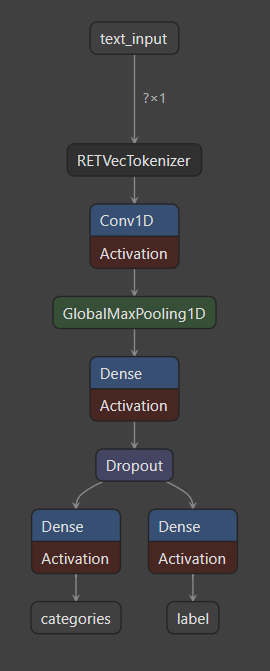
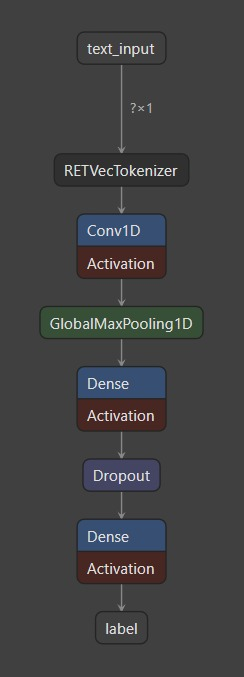
docs: update README note section to English

diff --git a/README.md b/README.md
@@ -41,10 +41,10 @@ As enterprise organizations ingest unstructured documents (PDF, DOCX, PPTX, XLSX
 This microservice analyzes extracted document text, optical OCR text streams, and steganographically hidden text layers, evaluating them through a character-level **RETVec + Conv1D Deep Neural Network**. It operates completely free of external LLM API calls, delivering zero-latency, deterministic threat classification before forwarding suspicious items for downstream LLM evaluation.
 
 > [!NOTE]
-> **Model Readiness & Dataset Scaling Notice / Model Statusu və Data Tələbi:**
-> - **Architecture & Pipeline Readiness:** Modelin memarlıq quruluşu (Google RETVec + Conv1D dual-head neural network) tam olaraq qurulub, oturdulub və real-time nəticə almaq üçün hazır vəziyyətdədir.
-> - **Dataset Volume & Diversity Bottleneck:** Modelin dəqiqliyini (accuracy) daha da artırmaq üçün əsas çatışmayan cəhət mövcud dataset-in həcminin azlığı və nümunələrin oxşarlığıdır. Dataset materialları kəmiyyət və keyfiyyət baxımından (müxtəlif real-world sənəd və injection növləri ilə) artırıldıqca modelin accuracy göstəricisi də mütənasib olaraq yüksələcəkdir.
-> - **Private Service Architecture & Testing Mode:** Bu ML servisi istehsalat (production) mühitində şəbəkə daxilində tam izolyasiya olunmuş **Private Microservice** kimi fəaliyyət göstərir və `X-Internal-Token` qoruması ilə təmin edilir. Münsiflər və test edənlər üçün Swagger UI üzərindən canlı sınaq rahatlığı yaratmaq məqsədilə evaluasiya endpoint-ləri müvəqqəti olaraq açıq saxlanılmışdır.
+> **Model Readiness & Dataset Scaling Notice:**
+> - **Architecture & Pipeline Readiness:** The model architecture (Google RETVec + Conv1D dual-head neural network) is fully implemented, deployed, and ready for real-time threat inference.
+> - **Dataset Volume & Diversity Bottleneck:** To further improve model accuracy, the primary requirement is expanding dataset volume and sample diversity. As training materials grow in both quantity and quality (incorporating diverse real-world documents and injection techniques), model performance will scale accordingly.
+> - **Private Service Architecture & Testing Mode:** In a production environment, this ML microservice operates as a network-isolated **Private Microservice** protected by `X-Internal-Token`. For jury evaluation and live testing convenience via Swagger UI, evaluation endpoints have been temporarily made publicly accessible.
 
 
 
